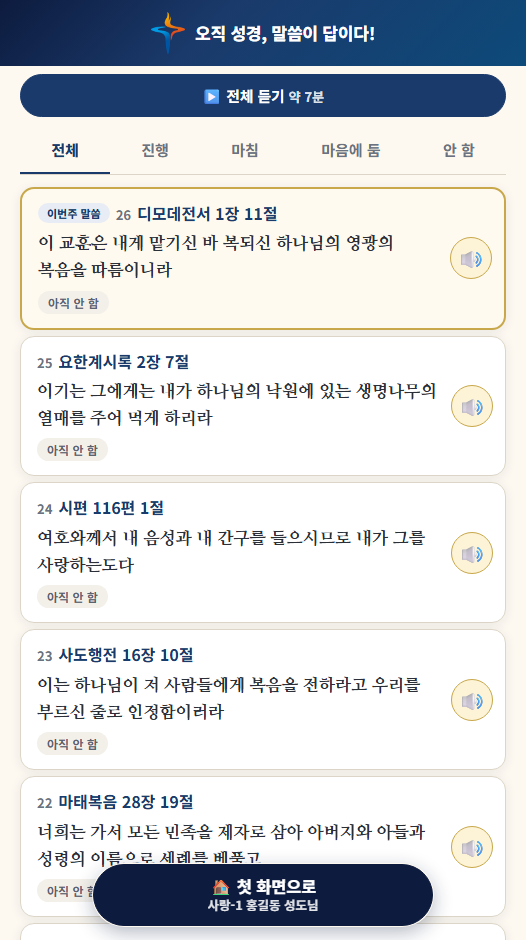
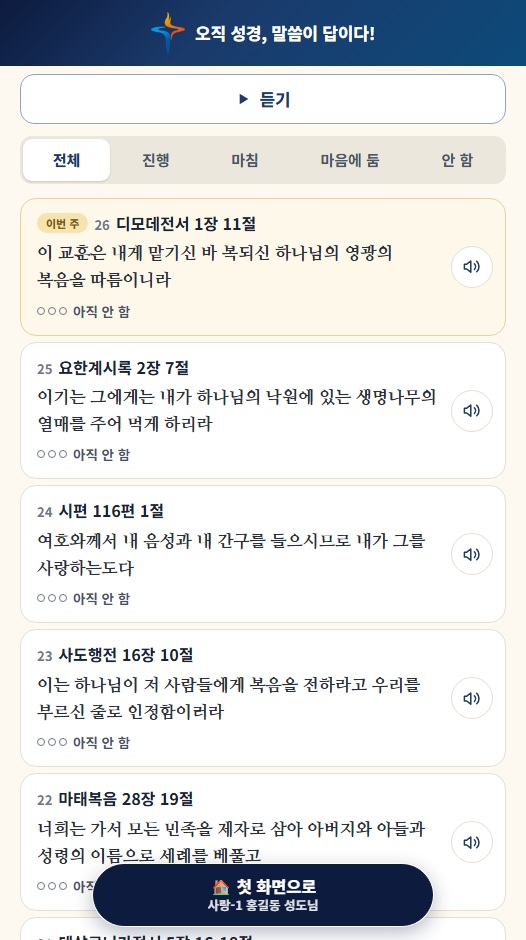
feat(말씀 목록): A안 — 카드 그대로 · A 옷(친구 「1안」) — v3.639
- 상태 = 점 셋 + 글(✓ 다 마침) · 마음에 둠 왕관 선 아이콘 · 🔊 선 아이콘 · 「▶ 듣기」(약 N분 뺌) · 거르기 칸 회색 판 위 흰 칸 · 이번 주 배지
- 주제별 구절 목록(nvCard)도 같은 함수 · applyVerseCounts 는 .vs-t 칸에만 「· N회」
- 설명서 · 도움말 「말씀 듣기」(MEMO_LAYOUT 으로 갈림) · guide ③ · list.png
- 롤백: MEMO_LAYOUT "old"

diff --git a/app.js b/app.js
@@ -6,7 +6,7 @@
 
 // 이 파일의 빌드 번호 — index.html의 app.js?v= 와 반드시 같아야 한다.
 // (tools/bump.py가 둘을 함께 올린다)
-const APP_BUILD = "20261014r";
+const APP_BUILD = "20261014s";
 
 // 배포 직후 CDN이 아직 옛 app.js를 내보내면, 브라우저는 그 옛 내용을 '새 주소'
 // 아래 캐시해 버린다. 주소가 다시 바뀌기 전까지(최대 10분) 옛 화면이 남는 이유다.
@@ -881,6 +881,7 @@ const HA_ICON = {
   help: "M12 21a9 9 0 1 0 0-18 9 9 0 0 0 0 18zM9.5 9a2.5 2.5 0 1 1 3.5 2.3c-.6.3-1 .9-1 1.6V14M12 17h.01",
   // 나의 말씀 앨범 A안(ALBUM_LAYOUT) — 시안 A(A-album.dc.html ICONS) 그대로
   check: "M5 12l5 5 9-10",
+  checkc: "M12 21a9 9 0 1 0 0-18 9 9 0 0 0 0 18zM8 12l3 3 5-6",   // 다 마침(말씀 목록 A)
   crown: "M3 8l4.5 4L12 5l4.5 7L21 8l-2 11H5z",
   speaker: "M11 5 6 9H3v6h3l5 4zM15.5 8.5a5 5 0 0 1 0 7M18.5 5.5a9 9 0 0 1 0 13",
   bulb: "M9 18h6M10 22h4M12 2a7 7 0 0 0-4 12.7V17h8v-2.3A7 7 0 0 0 12 2z",
@@ -5905,11 +5906,12 @@ function applyVerseCounts() {
   if (!verseCountCache) return;
   document.querySelectorAll("#verse-list .verse-status[data-no]").forEach((el) => {
     const base = el.dataset.base || el.textContent;
+    const tgt = el.querySelector(".vs-t") || el;   // A안은 점 · ✓ 옆 글 칸에만 쓴다(통째로 쓰면 점이 지워진다)
     // ⚠ 「아직 안 함」 칩에는 횟수를 붙이지 않는다(2026-10-12 검토) — 횟수는 도전 등 모든 기록을 세는데,
     //    칩은 3단계 암송 진도만 본다. 「아직 안 함 · 5회」는 「안 했는데 다섯 번」으로 스스로 어긋났다.
-    if (el.classList.contains("status-none")) { el.textContent = base; return; }
+    if (el.classList.contains("status-none")) { tgt.textContent = base; return; }
     const n = verseCountCache[el.dataset.no] || 0;
-    el.textContent = n > 0 ? `${base} · ${n}회` : base;
+    tgt.textContent = n > 0 ? `${base} · ${n}회` : base;
   });
   // 성도님 이름 뒤 총 암송 횟수(모든 구절 합계)
   const totalEl = document.getElementById("nav-total");
@@ -5927,21 +5929,40 @@ function loadVerseCounts(u) {
     .catch(() => {});
 }
 
+// ── 말씀 목록 A안(2026-10-14 친구 「1안 — 카드 그대로 · A 옷」 · 샘플 자료/design/2026-10-14-list-sample · 스위치 MEMO_LAYOUT) ─────
+//   카드 구조(본문 두 줄 — 10/12 시안 B) · 클래스 · 연결은 그대로, 안의 그림만 A 꼴로: 상태 = 점 셋(마친 단계만큼 채움) + 글 · 다 마침은 ✓ 동그라미 ·
+//   마음에 둠 = 왕관 선 아이콘 + 글 · 🔊 = 선 아이콘 · 듣기 줄 「▶ 듣기」(약 N분 뺌 — 앨범 A 와 같다) · 거르기 칸은 「쓰기 | 카드」 같은 꼴.
+//   주제별 성경암송 구절 목록(js/navi.js nvCard)도 같은 함수를 쓴다.
+//   ⚠ 상태 글은 .vs-t 칸에 — applyVerseCounts 가 「· N회」를 그 칸에만 쓴다(칩 전체 textContent 를 쓰면 점 · ✓ 가 지워진다).
+function vlAOn() { return memoVariant() === "a"; }
+function vlStatusInner(stage, text) {
+  if (!vlAOn()) return text;
+  const mark = stage >= 3 ? haSvg("checkc", "vs-ic")
+    : `<span class="vs-dots" aria-hidden="true">${[1, 2, 3].map((k) => `<i${k <= stage ? ' class="on"' : ""}></i>`).join("")}</span>`;
+  return mark + `<span class="vs-t">${text}</span>`;
+}
+function vlHeartHtml() {
+  return vlAOn() ? `<span class="heart-ribbon">${haSvg("crown", "vs-ic")}<span>마음에 둠</span></span>` : `<span class="heart-ribbon">👑 마음에 둠</span>`;
+}
+function vlListenInner() { return vlAOn() ? haSvg("speaker", "vs-spk") : "🔊"; }
+const VL_PLAY_SVG = `<svg class="vs-play" viewBox="0 0 24 24" fill="currentColor" aria-hidden="true" focusable="false"><path d="M7 4v16l13-8z"/></svg>`;
+
 function renderVerseList() {
   const u = loadUser();
   const appEl = document.getElementById("app");
+  const vlA = vlAOn() ? " vl-a" : "";   // 말씀 목록 A안(위 주석)
   // 보기 거르기 — 전체 · 진행 · 마침 · 마음에 둠 · 안 함(2026-10-12 · 시안 B · VL_FILTERS).
   //   ⚠ 칸에 수를 달지 않는다 — 첫 화면에서 전체 수를 뺀 것(같은 날 친구 ②안)과 같은 까닭이다.
   //      「안 함 39」는 새로 오신 분께 다시 「아직 한참」으로 읽힌다.
-  const tabsHtml = `<div class="vl-tabs" role="tablist" aria-label="말씀 목록 보기">${VL_FILTERS.map((f) =>
+  const tabsHtml = `<div class="vl-tabs${vlA}" role="tablist" aria-label="말씀 목록 보기">${VL_FILTERS.map((f) =>
     `<button type="button" role="tab" class="vl-tab${verseListFilter === f.k ? " on" : ""}" data-f="${f.k}" aria-selected="${verseListFilter === f.k}">${f.short ? `<span class="vt-long">${f.label}</span><span class="vt-short">${f.short}</span>` : f.label}</button>`).join("")}</div>`;
 
   appEl.innerHTML = `
-    ${verses.length ? `<div class="rank-filter album-play vl-play" id="vl-play">
+    ${verses.length ? `<div class="rank-filter album-play vl-play${vlA}" id="vl-play">
       <button id="vl-play-go" class="ab-go"></button>
     </div>` : ""}
     ${verses.length ? tabsHtml : ""}
-    <div id="verse-list" class="verse-grid"></div>
+    <div id="verse-list" class="verse-grid${vlA}"></div>
     <button class="home-fab" id="to-summary" aria-label="첫 화면으로">${homeFabLabel(u, true)}</button>
   `;
 
@@ -5978,7 +5999,7 @@ function drawVerseCards() {
   listEl.innerHTML = "";
   const weeklyInfo = getWeeklyVerseInfo();
   const weeklyNo = weeklyInfo && weeklyInfo.verse ? weeklyInfo.verse.no : null;
-  const weeklyBadge = weeklyInfo ? weeklyInfo.label : "이번 주";
+  const weeklyBadge = weeklyInfo ? (vlAOn() && weeklyInfo.label === "이번주 말씀" ? "이번 주" : weeklyInfo.label) : "이번 주";
 
   const heartMap = loadHearted();
 
@@ -5991,7 +6012,10 @@ function drawVerseCards() {
   if (playRow && playGo) {
     playRow.hidden = !shown.length;
     const dur = albumDurText(verseItemsFor(shown));
-    playGo.innerHTML = `▶ ${verseListFilter === "all" ? "전체 듣기" : "이 칸 듣기"}${dur ? ` <span class="ab-dur">${dur}</span>` : ""}`;
+    if (vlAOn()) {   // A안 — 앨범 A 의 「▶ 듣기」와 같은 꼴 · 「약 N분」은 뺀다(친구 2026-10-13 앨범)
+      playGo.innerHTML = VL_PLAY_SVG + (verseListFilter === "all" ? "듣기" : "이 칸 듣기");
+      playGo.setAttribute("aria-label", verseListFilter === "all" ? "말씀 이어 듣기" : "이 칸 말씀 이어 듣기");
+    } else playGo.innerHTML = `▶ ${verseListFilter === "all" ? "전체 듣기" : "이 칸 듣기"}${dur ? ` <span class="ab-dur">${dur}</span>` : ""}`;
   }
   if (!shown.length && verses.length) {
     // 「마침」이 빈 까닭이 「아직 없음」인지 「모두 마음에 둠으로 옮겨 감」인지 가른다 — 둘을 한 말로 뭉개면 거짓이 된다.
@@ -6036,11 +6060,11 @@ function drawVerseCards() {
         <div class="vl-top">${isWeekly ? `<span class="weekly-list-badge vl-week">${weeklyBadge}</span>` : ""}<span class="vl-no">${v.no}</span><span class="verse-ref">${refShow}</span></div>
         <div class="vl-text${isHeart ? " vl-hint" : ""}">${body}</div>
         <div class="vl-state">
-          <span class="verse-status ${status.cls}" data-no="${v.no}" data-base="${status.text}">${status.text}</span>
-          ${isHeart ? `<span class="heart-ribbon">👑 마음에 둠</span>` : ""}
+          <span class="verse-status ${status.cls}" data-no="${v.no}" data-base="${status.text}">${vlStatusInner(passed, status.text)}</span>
+          ${isHeart ? vlHeartHtml() : ""}
         </div>
       </div>
-      <button class="card-listen" aria-label="${ref} 듣기" title="듣기">🔊</button>
+      <button class="card-listen" aria-label="${ref} 듣기" title="듣기">${vlListenInner()}</button>
     `;
     card.addEventListener("click", () => { albumPlayStop(); startTest(v); });
     // 듣기 버튼: 카드 클릭(테스트 시작)으로 번지지 않게 막고 본문을 읽어준다.
@@ -9779,11 +9803,14 @@ const MANUAL = [
   {
     icon: "🔊", title: "말씀 듣기",
     lead: "눈이 피로하실 땐 귀로 들으세요.",
-    art: '<div class="mn-row"><span class="mn-btn mn-btn-on">▶ 전체 듣기</span><span class="mn-btn">🔊</span></div>',
+    art: MEMO_LAYOUT === "a" ? '<div class="mn-row"><span class="mn-btn mn-btn-on">▶ 듣기</span><span class="mn-btn">🔊</span></div>'
+      : '<div class="mn-row"><span class="mn-btn mn-btn-on">▶ 전체 듣기</span><span class="mn-btn">🔊</span></div>',
     steps: [
       "<b>말씀 목록</b>에서 구절 옆 <b>🔊</b>를 누르면 그 말씀 하나를 읽어 줘요.",
       "<b>🔊</b>를 <b>빠르게 여러 번</b> 누르면 누른 만큼 되풀이해 읽어 줘요.",
-      "<b>말씀 목록</b> 맨 위 <b>▶ 전체 듣기</b>를 누르면 처음부터 끝까지 이어서 읽어 줘요.",
+      MEMO_LAYOUT === "a"   // 말씀 목록 A안(2026-10-14) — 「▶ 듣기」
+        ? "<b>말씀 목록</b> 맨 위 <b>▶ 듣기</b>를 누르면 처음부터 끝까지 이어서 읽어 줘요."
+        : "<b>말씀 목록</b> 맨 위 <b>▶ 전체 듣기</b>를 누르면 처음부터 끝까지 이어서 읽어 줘요.",
       "요절을 먼저 부르고, 잠깐 쉰 뒤 다음 말씀으로 넘어가요.",
       "듣는 동안 <b>화면이 저절로 꺼지지 않아요.</b>",
     ],
@@ -10156,7 +10183,7 @@ function renderHelp(onClose) {
 
         <section class="help-section">
           <h3>🔊 말씀 듣기</h3>
-          <p>말씀 목록의 <b>🔊</b>로 말씀을 들을 수 있어요. <b>빠르게 여러 번 누르면 그 횟수만큼 반복</b>해서 읽어줘요. 목록 맨 위 <b>▶ 전체 듣기</b>는 처음부터 끝까지 이어서 읽어 주고, 암송 화면 도구 칸의 <b>듣기</b>는 한 번 더 누르면 멈춰요. 읽는 속도는 <b>⚙ 설정</b>에서 바꿀 수 있어요.</p>
+          <p>말씀 목록의 <b>🔊</b>로 말씀을 들을 수 있어요. <b>빠르게 여러 번 누르면 그 횟수만큼 반복</b>해서 읽어줘요. 목록 맨 위 <b>${MEMO_LAYOUT === "a" ? "▶ 듣기" : "▶ 전체 듣기"}</b>는 처음부터 끝까지 이어서 읽어 주고, 암송 화면 도구 칸의 <b>듣기</b>는 한 번 더 누르면 멈춰요. 읽는 속도는 <b>⚙ 설정</b>에서 바꿀 수 있어요.</p>
         </section>
 
         <section class="help-section">

diff --git a/style.css b/style.css
@@ -7319,3 +7319,57 @@ html[data-fs="xl"] .test-screen.memo-c .test-sentence, html[data-fs="xl"] .test-
 .dark .home-a .weekly-actions .weekly-primary { background: #2f5596; border-color: #2f5596; }
 .dark .home-a .weekly-actions .weekly-secondary { background: transparent; border-color: #4a6597; color: #9dbbea; }
 .dark .home-a .weekly-actions .weekly-secondary:hover { background: #222a37; }
+
+/* ── 말씀 목록 A안(app.js vlAOn · 2026-10-14 친구 「1안 — 카드 그대로 · A 옷」) ─────────────────────────────────────────
+   카드 구조(본문 두 줄)는 그대로 — 흰 카드 · 옅은 테두리 · 이번 주는 옅은 금색 · 상태는 점 셋 + 글(✓ 다 마침) · 마음에 둠은 왕관 선 아이콘 ·
+   🔊 는 테두리 동그라미 + 선 아이콘(크기는 큰 글씨 규칙 그대로) · 듣기 줄은 테두리 「▶ 듣기」 · 거르기 칸은 회색 판 위 흰 칸(「쓰기 | 카드」와 같은 꼴).
+   세 덩이(#vl-play · .vl-tabs · #verse-list)에 .vl-a 가 붙는다. 주제별 구절 목록은 #nv-list.vl-a. */
+.vl-play.vl-a .ab-go {
+  flex: 1 1 auto; min-height: 50px; border: 1.5px solid #8da3c8; border-radius: 14px; background: #fff; color: #1e3a6b;
+  display: flex; align-items: center; justify-content: center; gap: 8px; font-size: 1.06rem; font-weight: 800; box-shadow: none;
+}
+.vl-play.vl-a .ab-go:hover { background: #eaf0f9; }
+.vs-play { width: 16px; height: 16px; flex: none; }
+.vl-tabs.vl-a { gap: 2px; padding: 3px; margin: 0 0 14px; border: 0; border-radius: 12px; background: #ece7dd; }
+.vl-tabs.vl-a .vl-tab { min-height: 42px; margin: 0; border: 0; border-radius: 9px; color: #4a5468; }
+.vl-tabs.vl-a .vl-tab.on { background: #fff; color: #1e3a6b; box-shadow: 0 1px 2px rgba(0, 0, 0, .14); }
+.vl-a .verse-card.vl-card { background: #fff; border: 1px solid #e5dfd4; border-radius: 16px; box-shadow: none; }
+.vl-a .verse-card.vl-card.weekly-verse { background: #fdf8ea; border-color: #e6d29c; }
+.vl-a .verse-card.vl-card.playing { border-color: #1e3a6b; box-shadow: 0 0 0 3px rgba(30, 58, 107, .22); }
+.vl-a .vl-card .verse-ref { color: #1b2333; }
+.vl-a .vl-no { color: #6e7787; }
+.vl-a .vl-card .vl-week { background: #f6e3ae; color: #7a5a12; }
+.vl-a .vl-card .verse-status { display: inline-flex; align-items: center; gap: 6px; padding: 0; border: 0; border-radius: 0; background: transparent; font-size: 13.5px; font-weight: 700; color: #4a5468; }
+.vl-a .vl-card .verse-status.status-s1, .vl-a .vl-card .verse-status.status-s2 { color: #1e3a6b; }
+.vl-a .vl-card .verse-status.status-done { color: #1f7a4d; }
+.vl-a .vs-dots { display: inline-flex; gap: 3px; flex: none; }
+.vl-a .vs-dots i { width: 8px; height: 8px; box-sizing: border-box; border-radius: 4px; border: 1.5px solid #6e7787; }
+.vl-a .vs-dots i.on { border-color: #1e3a6b; background: #1e3a6b; }
+.vl-a .vs-ic { width: 16px; height: 16px; flex: none; stroke-width: 2.2; }
+.vl-a .vl-card .heart-ribbon { display: inline-flex; align-items: center; gap: 3px; padding: 0; border: 0; border-radius: 0; background: transparent; box-shadow: none; font-size: 13.5px; font-weight: 700; color: #7a5a12; }
+.vl-a .card-listen { border: 1px solid #e5dfd4; border-radius: 50%; background: #fff; color: #1e3a6b; font-size: 0; display: flex; align-items: center; justify-content: center; padding: 0; box-shadow: none; }
+.vl-a .card-listen:hover { background: #eaf0f9; }
+.vl-a .vs-spk { width: 48%; height: 48%; stroke-width: 1.9; }
+html[data-fs="lg"] .vl-a .vl-card .verse-status, html[data-fs="lg"] .vl-a .vl-card .heart-ribbon { font-size: 15px; }
+html[data-fs="xl"] .vl-a .vl-card .verse-status, html[data-fs="xl"] .vl-a .vl-card .heart-ribbon { font-size: 17px; }
+html[data-fs="lg"] .vl-a .vs-ic { width: 18px; height: 18px; }
+html[data-fs="xl"] .vl-a .vs-ic { width: 20px; height: 20px; }
+.dark .vl-play.vl-a .ab-go { background: #1a202b; border-color: #4a6597; color: #9dbbea; }
+.dark .vl-play.vl-a .ab-go:hover { background: #222a37; }
+.dark .vl-tabs.vl-a { background: #262d39; }
+.dark .vl-tabs.vl-a .vl-tab { color: #b9c0cd; }
+.dark .vl-tabs.vl-a .vl-tab.on { background: #1a202b; color: #9dbbea; }
+.dark .vl-a .verse-card.vl-card { background: #1a202b; border-color: #2c3442; }
+.dark .vl-a .verse-card.vl-card.weekly-verse { background: #221e14; border-color: #5c4c22; }
+.dark .vl-a .verse-card.vl-card.playing { border-color: #9dbbea; box-shadow: 0 0 0 3px rgba(157, 187, 234, .3); }
+.dark .vl-a .vl-card .verse-ref { color: #f1eee7; }
+.dark .vl-a .vl-no { color: #949dad; }
+.dark .vl-a .vl-card .vl-week { background: #4a3d1c; color: #e9cd7e; }
+.dark .vl-a .vl-card .verse-status { background: transparent; color: #b9c0cd; }
+.dark .vl-a .vl-card .verse-status.status-s1, .dark .vl-a .vl-card .verse-status.status-s2 { background: transparent; color: #9dbbea; }
+.dark .vl-a .vl-card .verse-status.status-done { color: #6fcf97; }
+.dark .vl-a .vs-dots i { border-color: #949dad; }
+.dark .vl-a .vs-dots i.on { border-color: #9dbbea; background: #9dbbea; }
+.dark .vl-a .vl-card .heart-ribbon { color: #e9cd7e; }
+.dark .vl-a .card-listen { background: #1a202b; border-color: #2c3442; color: #9dbbea; }
+.dark .vl-a .card-listen:hover { background: #222a37; }

diff --git a/index.html b/index.html
@@ -68,7 +68,7 @@
   <link rel="preconnect" href="https://fonts.gstatic.com" crossorigin />
   <link href="https://fonts.googleapis.com/css2?family=Gowun+Batang:wght@400;700&family=Lora:wght@400;600;700&family=Nanum+Myeongjo:wght@400;700;800&family=Noto+Sans+KR:wght@400;500;700;800&display=swap" rel="stylesheet" media="print" onload="this.media='all'" />
   <noscript><link href="https://fonts.googleapis.com/css2?family=Gowun+Batang:wght@400;700&family=Lora:wght@400;600;700&family=Nanum+Myeongjo:wght@400;700;800&family=Noto+Sans+KR:wght@400;500;700;800&display=swap" rel="stylesheet" /></noscript>
-  <link rel="stylesheet" href="style.css?v=20261014r" />
+  <link rel="stylesheet" href="style.css?v=20261014s" />
 </head>
 <body>
   <!-- 앱 시작 스플래시 화면 -->
@@ -77,7 +77,7 @@
       <img id="splash-logo" src="img/logo-gocheok.png" alt="고척교회" />
       <div class="splash-title">오직 성경, 말씀이 답이다!</div>
       <div class="splash-sub">주의 말씀은 내 발에 등이요<br>내 길에 빛이니이다</div>
-      <div class="splash-ver">v3.638</div>
+      <div class="splash-ver">v3.639</div>
       <img class="splash-denom" src="logo3.png?v=20260702y" alt="대한예수교장로회총회" onerror="this.style.display='none'" />
     </div>
   </div>
@@ -108,11 +108,11 @@
     <p style="text-align:center;padding:40px">불러오는 중...</p>
   </main>
 
-  <script src="js/config.js?v=20261014r"></script>
-  <script src="js/api.js?v=20261014r"></script>
-  <script src="js/push.js?v=20261014r"></script>
-  <script src="js/psalm.js?v=20261014r"></script>
-  <script src="js/events.js?v=20261014r"></script>
-  <script src="app.js?v=20261014r"></script>
+  <script src="js/config.js?v=20261014s"></script>
+  <script src="js/api.js?v=20261014s"></script>
+  <script src="js/push.js?v=20261014s"></script>
+  <script src="js/psalm.js?v=20261014s"></script>
+  <script src="js/events.js?v=20261014s"></script>
+  <script src="app.js?v=20261014s"></script>
 </body>
 </html>

diff --git a/js/navi.js b/js/navi.js
@@ -191,6 +191,7 @@ function renderNaviChapter(code) {
   document.getElementById("nv-back").addEventListener("click", () => { albumPlayStop(); renderNaviHome(); });
   if (typeof memoVariant === "function" && memoVariant() === "a") {   // A안 — 암송 화면 「‹ 목록으로」와 같은 테두리 단추
     app.querySelector(".nv-screen").classList.add("nv-a");
+    document.getElementById("nv-list").classList.add("vl-a");   // 구절 카드는 말씀 목록 A안과 같은 옷(app.js vlStatusInner …)
     document.getElementById("nv-back").innerHTML = mmSvg("back") + "<span>묶음 목록</span>";
   }
   document.getElementById("nv-home").addEventListener("click", () => { albumPlayStop(); renderSummary(); });
@@ -248,11 +249,11 @@ function nvCard(v, k, heartMap) {
         <div class="vl-top"><span class="vl-no">${k}</span><span class="verse-ref">${psalmEsc(refShow)}</span></div>
         <div class="vl-text${isHeart ? " vl-hint" : ""}">${psalmEsc(body)}</div>
         <div class="vl-state">
-          <span class="verse-status ${status.cls}">${status.text}</span>
-          ${isHeart ? `<span class="heart-ribbon">👑 마음에 둠</span>` : ""}
+          <span class="verse-status ${status.cls}">${vlStatusInner(passed, status.text)}</span>
+          ${isHeart ? vlHeartHtml() : ""}
         </div>
       </div>
-      <button class="card-listen" aria-label="${psalmEsc(v.refFull)} 듣기" title="듣기">🔊</button>`;
+      <button class="card-listen" aria-label="${psalmEsc(v.refFull)} 듣기" title="듣기">${vlListenInner()}</button>`;
   card.addEventListener("click", () => { albumPlayStop(); nvStart(v); });
   // 듣기 — 카드 누름(암송 시작)으로 번지지 않게 · 빠르게 N번 누르면 N번 읽는다(말씀 목록과 같다)
   const listenBtn = card.querySelector(".card-listen");

diff --git a/admin.html b/admin.html
@@ -74,7 +74,7 @@
     // 교회 어드민으로 옮긴 관리 화면은 여기서 걷었다 — 성도 정보(2026-10-09) · 이벤트 · 찬양 아카이브 · 내게 주시는 말씀 기록 · 사역관리(2026-10-13).
     //   남은 것(성경암송 관리 · 설교·찬양 관리)은 설교 실전 확인 뒤 마지막 걷기에(docs/notes/admin-migration.md).
     //   ⚠ 교회 어드민(admin.onlybible.kr)으로 가는 타일은 두지 않는다(2026-10-13 친구 — 그곳은 주소로 직접 들어간다).
-    { ic:"📖", title:"성경암송 관리", desc:"통계 · 알림발송 · 주간리포트 · 게시판", href:"admin-stats.html?v=20261014r" },
+    { ic:"📖", title:"성경암송 관리", desc:"통계 · 알림발송 · 주간리포트 · 게시판", href:"admin-stats.html?v=20261014s" },
     { ic:"⛪", title:"설교·찬양 관리", desc:"설교 올리기(두 단계) · 설교 목록 · 매일 묵상 · 담당자 — 담당자도 이 주소로", href:"admin-sermon.html" },
     { ic:"🎬", title:"환영 인트로 미리보기", desc:"첫 방문 인트로 4장 — 성도님 화면엔 영향 없음", href:"index.html?preview=intro" },
     { ic:"🙏", title:"축복 인사 미리보기", desc:"첫 로그인 축복 카드 — 로그인 상태에서 확인", href:"index.html?preview=blessing" },

diff --git a/guide/index.html b/guide/index.html
@@ -184,7 +184,7 @@ var STEPS = [
 
   { img:"shots/list.png", t:"③ 말씀 목록", tap:{x:45,y:31},
     s:"외울 말씀을 고르는 곳이에요.",
-    say:"구절을 하나 누르면 암송이 시작돼요. 맨 위 <b>▶ 전체 듣기</b>를 누르면 처음부터 끝까지 이어서 읽어 줍니다.",
+    say:"구절을 하나 누르면 암송이 시작돼요. 맨 위 <b>▶ 듣기</b>를 누르면 처음부터 끝까지 이어서 읽어 줍니다.",
     tip:"구절 옆 🔊 를 누르면 그 말씀 하나만 들려줘요." },
 
   { img:"shots/stage1.png", t:"④ 빈칸 채우기", tap:{x:49,y:54},

diff --git a/docs/notes/design-refresh.md b/docs/notes/design-refresh.md
@@ -94,6 +94,13 @@
 - **같은 날 v3.638 — 맨 위 띠(모든 화면) 새 꼴 · 샘플 ③**(친구 「로고(교회 이름 없음) · 오직 성경 말씀이 답이다! 만 넣은 헤더를 샘플로」 → 샘플 넷 `자료/design/2026-10-14-header-sample/header-sample.png`(이 PC · 커밋 안 함 — 지금 · ① 흰 상자 왼쪽 · ② 흰 상자 가운데 · ③ 상자 없이) → 「3번으로」). `index.html` `.page-header` — 흰 상자 · 네 줄(로고 「고척교회」 글씨 포함 · 구호 · 주의 말씀은… · 시편 119편 105절) → **남색 띠에 글씨 없는 로고(`img/logo-mark.png` 108×132 · `logo-gocheok.png` 위 487px 를 잘라 냄 · 34px 로 보임) + 「오직 성경, 말씀이 답이다!」 흰 글씨 17px 한 줄 · 가운데**. 띠 높이가 절반쯤 줄어 띠가 있는 모든 화면(첫 화면 · 말씀 목록 · 설정 · 주제별 …)의 내용이 그만큼 올라왔다. 스플래시(`#splash-logo`)는 옛 로고 그대로. 어두운 모드도 같은 띠라 짝이 필요 없다. 플레이 앱 위 띠 색은 그대로 남색(`syncStatusBar` 가 띠를 #1a3a6b 로 본다).
   - 같은 판 · 첫 화면 「주님의 이름으로 환영합니다」가 🔔 · ⚙ 옆에서 두 줄로 꺾이던 것(친구) — 이름 줄 아래로 꺼내 한 줄을 통째로 쓰게(`.ha-welcome` · `haTop`). 🔔 · ⚙ 는 이름 줄 오른쪽에만.
   - guide 사진 여섯(home · install · list · manual · settings · challenge) 다시 · ② 손가락 y 29. ⚠ 스토어 사진(`자료/store/`)의 맨 위 띠는 옛 꼴이다 — 다음에 스토어 사진을 갈 때 함께.
+- **같은 날 v3.639 — 말씀 목록 A안 · 「1안 — 카드 그대로 · A 옷」**(친구 「말씀목록은 C안으로 적용을 했었는데 더 좋은 안이 있을까요」 — 지금 목록은 C 가 아니라 10/12 의 B 구조(본문 두 줄)라고 말씀드리고 샘플 셋을 찍어 보임 `자료/design/2026-10-14-list-sample/list-sample.png`(이 PC · 커밋 안 함): ① 카드 그대로 · A 옷 · ② 한 카드 안 줄 목록 · 본문 한 줄(추천했다) · ③ 시안 A 그대로 · 본문 없음 → 친구 「1안」). 스위치 `MEMO_LAYOUT`(암송과 같이 롤백 · 이 기기만 「옛 화면」).
+  - `app.js` `vlAOn` · `vlStatusInner`(점 셋 + 글 · 다 마침은 ✓ 동그라미) · `vlHeartHtml`(왕관 선 아이콘 + 「마음에 둠」) · `vlListenInner`(🔊 → 선 아이콘) · `VL_PLAY_SVG` — `drawVerseCards` 와 주제별 `nvCard` 가 함께 쓴다. 세 덩이(#vl-play · .vl-tabs · #verse-list · 주제별은 #nv-list)에 `.vl-a`.
+  - 듣기 줄 「▶ 전체 듣기 약 N분」 → 「▶ 듣기」(칸을 고르면 「이 칸 듣기」 · 약 N분 뺌 — 앨범 A 와 같다) · 거르기 칸은 회색 판 위 흰 칸 · 이번 주 배지 「이번 주」 · 카드 흰 바탕 옅은 테두리(이번 주는 옅은 금색).
+  - ⚠ `applyVerseCounts`(「· N회」)는 이제 `.vs-t` 칸에만 쓴다 — 칩 전체 textContent 를 쓰면 점 · ✓ 가 지워진다(옛 꼴은 .vs-t 가 없어 그대로 칩 전체).
+  - 🔊 는 금색 강조(「고령 성도가 쉽게 찾도록」 · style.css 「듣기(TTS) 버튼 크게」) → 흰 동그라미 + 남색 선 아이콘. 크기 규칙(큰 글씨 48 · 54px)은 그대로.
+  - 같이 고친 말: 설명서 「말씀 듣기」 그림 · 셋째 줄 · 도움말 「말씀 듣기」(MEMO_LAYOUT 으로 갈림) · guide ③ 문장 · `guide/shots/list.png`.
+  - 확인(localhost 개발 DB): 360 밝게 · 어둡게 · 320 아주 크게 — 넘침 · 잘림 0 · 오류 0 · 「· N회」 뒤에도 점 · ✓ 그대로 · 칸 바꾸기 · 주제별 구절 목록 · 이 기기만 「옛 화면」이면 옛 목록 그대로.
 
 ## 🧪 암송 화면 시안 A · B · C 미리보기 — `?memo=a|b|c` (2026-10-14 · 친구 「암송화면 시안A, 시안B, 시안C 모두 만들어 주세요」)
 - **폰에서는 설정 → 🔒 관리 페이지 → 「🧪 암송 화면 시안 미리보기」**에서 켠다(아래 ⚠). PC 브라우저는 **https://gocheok.onlybible.kr/?memo=a**(또는 `b` · `c`)로 연 기기에서만 암송 화면(`renderTestScreen` — 이번 주 말씀 · 말씀 목록에서 들어가는 화면)이 그 시안 꼴이다. 화면 위 표시 줄에서 **A · B · C · 원래**를 그 자리에서 바꿔 본다(`?memo=off` 도 원래로). 표식은 localStorage `memo-preview` 하나 — 주소를 모르는 성도님 화면은 그대로다.

diff --git a/CLAUDE.md b/CLAUDE.md
@@ -59,7 +59,7 @@
 | 봉사 당번(2026-10-06 운영 · 문 닫힘 — 🧪만) — `duty_signups` 에 직접 쓰지 말 것 | `docs/notes/duty-roster.md` |
 | 관리 기능을 교회 어드민으로 옮기기(2026-10-08 결정) | `docs/notes/admin-migration.md` · `docs/backlog.md` 4-5 |
 | 안드로이드 앱(TWA)·위젯·플레이스토어(새 앱 `kr.onlybible.gocheok`) | `docs/notes/android-app.md` |
-| 디자인 개편(2026-10-12 시작 · 시안 A·B·C 의견 수렴 중 — 고르기 전엔 입히지 말 것) · 「전」 사진 `자료/design/` · **먼저 넣은 것**(10-12 운영): 첫 화면 남은 수·전체 수·% 빼기 · 말씀 목록 시안 B 구조(본문 두 줄 · 거르기 칸 「진행·마침·마음에 둠·안 함」 · 힌트는 마음에 둔 구절에만) · 상태 이름 「아직 안 함 · 1단계 마침 · 다 마침」 · **첫 화면 A안 운영(2026-10-13 · 이번 주 말씀 아래 줄 목록) — 롤백 `app.js` `HOME_LAYOUT = "old"` 한 줄 + bump(깃 태그 `home-before-a-2026-10-13`)** · 한 기기만 `?home=old` · B안 미리보기 `?home=b` · `?home=off` · **나의 말씀 앨범 A안 운영(2026-10-13 v3.617 · 롤백 `app.js` `ALBUM_LAYOUT = "old"` 한 줄 + bump)** · 「첫 화면으로」는 시안과 달리 늘 아래에 떠 있게(친구) · **✍ 말씀 글꼴 설정(2026-10-14 · 기본 고딕 · `html[data-wf]`)** · **암송 · 말씀 도전 A안 운영(2026-10-14 v3.634 · 주제별 성경암송 3단계 · 복습도 v3.635 · 단계 완료 창 · 마친 뒤 카드 · 주제별 목록 · 첫 화면 위쪽(🔔⚙ 는 인사 줄 오른쪽 — 친구 v3.637)도 v3.636 · **맨 위 띠(모든 화면) = 남색 띠에 글씨 없는 로고 `img/logo-mark.png` + 「오직 성경, 말씀이 답이다!」 한 줄(v3.638 · 친구 샘플 ③)** — 롤백 `app.js` `MEMO_LAYOUT = "old"` 한 줄 + bump · 깃 태그 `memo-before-a-2026-10-14` · 한 기기만 설정 → 관리 페이지 「옛 화면」/`?memo=old`) · 위 구절 띠(`.test-ref-sticky`)에는 아무것도 넣지 말 것 — 아이폰 앱이 읽는다** | `docs/notes/design-refresh.md` |
+| 디자인 개편(2026-10-12 시작 · 시안 A·B·C 의견 수렴 중 — 고르기 전엔 입히지 말 것) · 「전」 사진 `자료/design/` · **먼저 넣은 것**(10-12 운영): 첫 화면 남은 수·전체 수·% 빼기 · 말씀 목록 시안 B 구조(본문 두 줄 · 거르기 칸 「진행·마침·마음에 둠·안 함」 · 힌트는 마음에 둔 구절에만) · 상태 이름 「아직 안 함 · 1단계 마침 · 다 마침」 · **첫 화면 A안 운영(2026-10-13 · 이번 주 말씀 아래 줄 목록) — 롤백 `app.js` `HOME_LAYOUT = "old"` 한 줄 + bump(깃 태그 `home-before-a-2026-10-13`)** · 한 기기만 `?home=old` · B안 미리보기 `?home=b` · `?home=off` · **나의 말씀 앨범 A안 운영(2026-10-13 v3.617 · 롤백 `app.js` `ALBUM_LAYOUT = "old"` 한 줄 + bump)** · 「첫 화면으로」는 시안과 달리 늘 아래에 떠 있게(친구) · **✍ 말씀 글꼴 설정(2026-10-14 · 기본 고딕 · `html[data-wf]`)** · **암송 · 말씀 도전 A안 운영(2026-10-14 v3.634 · 주제별 성경암송 3단계 · 복습도 v3.635 · 단계 완료 창 · 마친 뒤 카드 · 주제별 목록 · 첫 화면 위쪽(🔔⚙ 는 인사 줄 오른쪽 — 친구 v3.637)도 v3.636 · **맨 위 띠(모든 화면) = 남색 띠에 글씨 없는 로고 `img/logo-mark.png` + 「오직 성경, 말씀이 답이다!」 한 줄(v3.638 · 친구 샘플 ③)** · **말씀 목록 A(카드 그대로 · A 옷 · v3.639 · MEMO_LAYOUT)** — 롤백 `app.js` `MEMO_LAYOUT = "old"` 한 줄 + bump · 깃 태그 `memo-before-a-2026-10-14` · 한 기기만 설정 → 관리 페이지 「옛 화면」/`?memo=old`) · 위 구절 띠(`.test-ref-sticky`)에는 아무것도 넣지 말 것 — 아이폰 앱이 읽는다** | `docs/notes/design-refresh.md` |
 
 ## 폴더 — 참고·산출물은 `자료/` (2026-10-08)
 화면이 안 쓰는 참고·산출물은 모두 `자료/` 아래다 — `marketing`·`ministry`·`store`·`psalm`·`migrate`·`booklet`(GitHub) + `education`·`newfamily`·`AppForm`·`Picture`·`당회보고`(로컬). **`자료/` 는 사이트로 안 나간다.**
